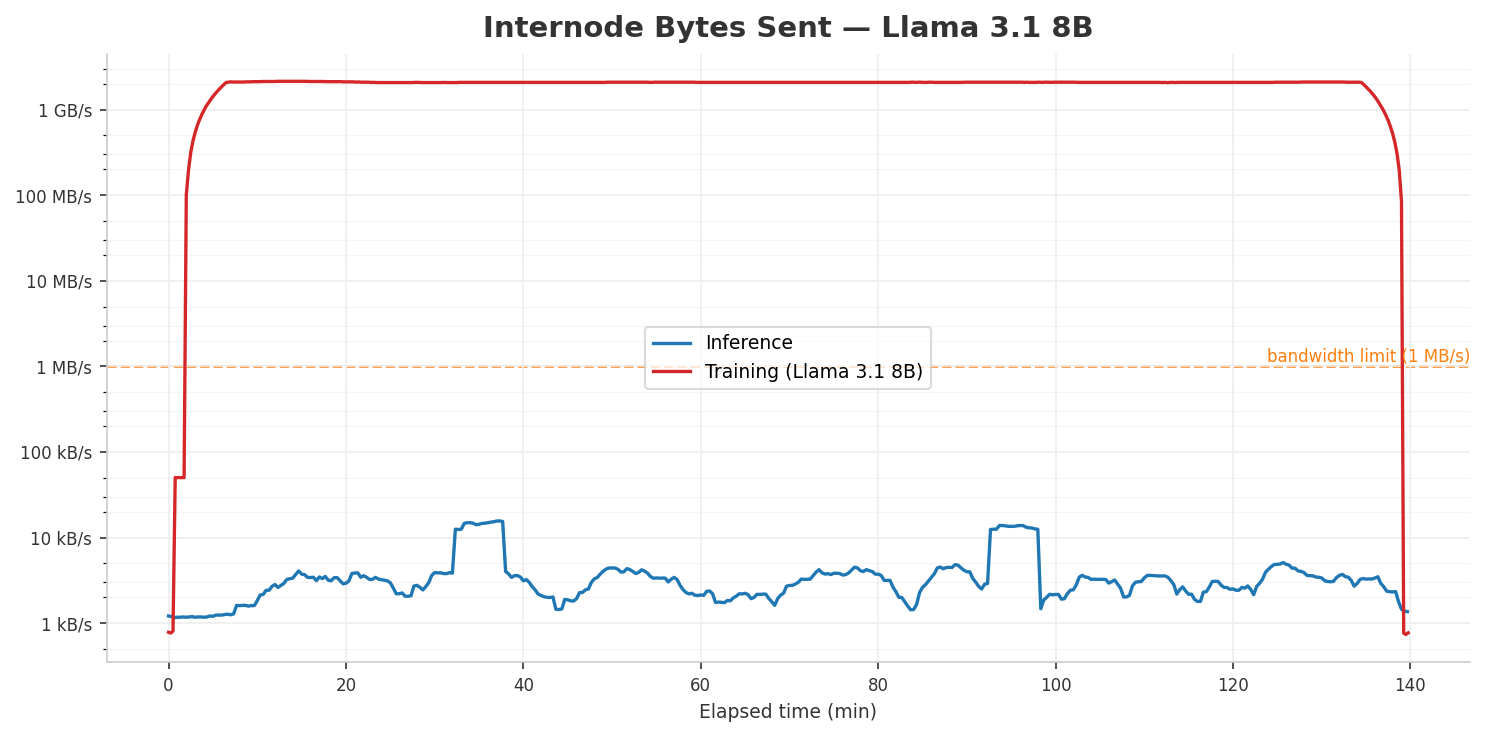
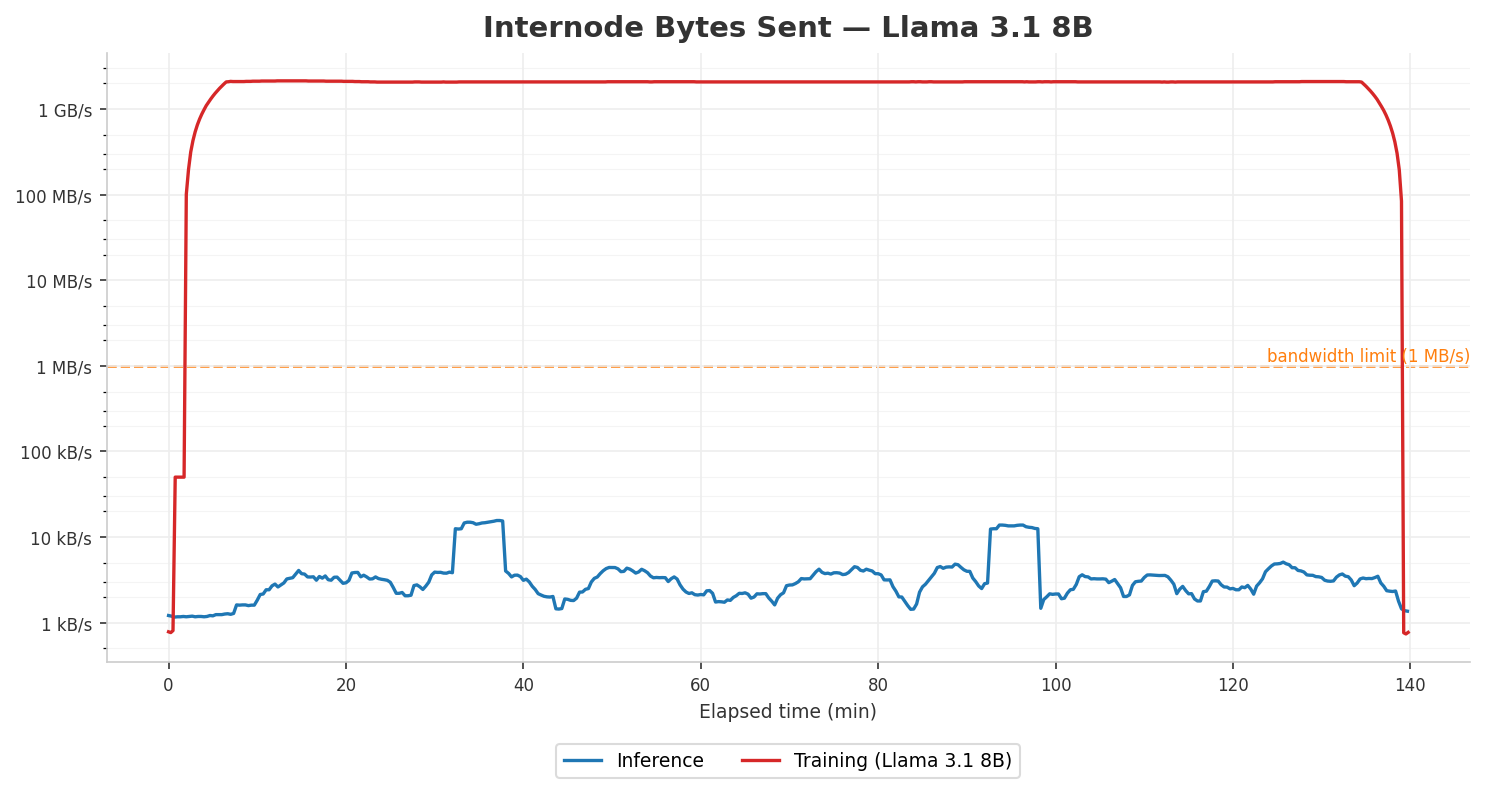
Move internode bytes legend below plot to avoid data overlap

diff --git a/scripts/analysis/plot_dashboard.py b/scripts/analysis/plot_dashboard.py
@@ -450,12 +450,13 @@ def plot_internode_bytes(
     ax.tick_params(axis="x", labelsize=8, colors="#333333")
     ax.tick_params(axis="y", labelsize=8, colors="#333333")
     ax.yaxis.set_major_formatter(ticker.FuncFormatter(adaptive_bytes_formatter))
-    ax.legend(fontsize=9, framealpha=0.7, edgecolor="#cccccc")
     ax.spines[["top", "right"]].set_visible(False)
     ax.spines[["left", "bottom"]].set_color("#cccccc")
     ax.grid(True, color="#eeeeee", linewidth=0.8)
 
     fig.tight_layout()
+    ax.legend(fontsize=9, framealpha=0.7, edgecolor="#cccccc",
+              loc="upper center", bbox_to_anchor=(0.5, -0.12), ncol=3)
     fig.savefig(output_path, dpi=150, bbox_inches="tight", facecolor="white")
     plt.close(fig)
     print(f"Saved: {output_path}")
